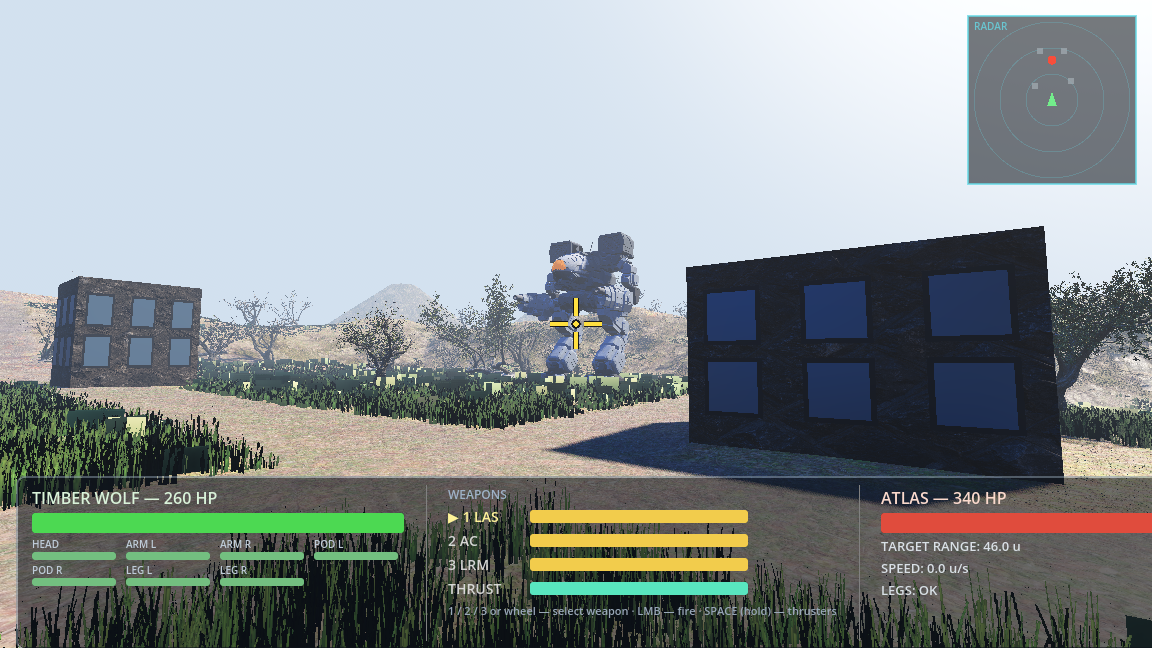
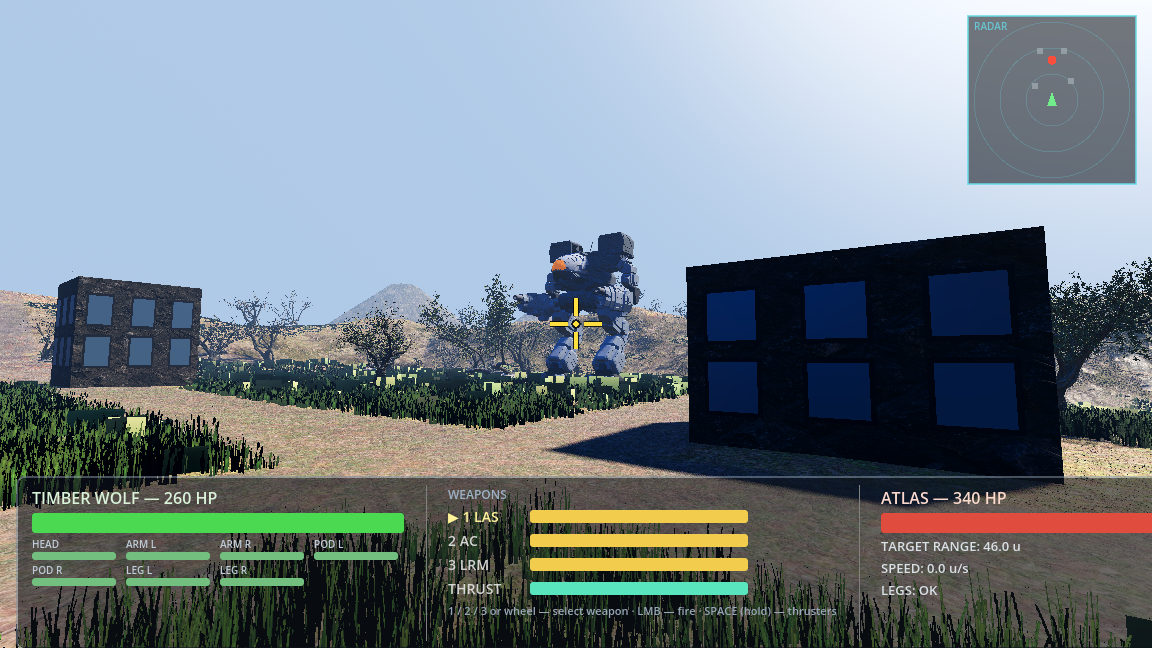
photo: SDFGI tuned (4 cascades, occlusion, coarser probes) + darker contrast look
Exposure 1.06->0.94, sky ambient 0.42->0.30, SDFGI energy 0.85,
sun 1.6->1.45, fog color deepened (density kept), filmic
contrast 1.08 / saturation 1.05. Owner: fog + bright light
overilluminated the scene. Proofs regenerated.

diff --git a/godot/PhotoEnv.cs b/godot/PhotoEnv.cs
@@ -477,17 +477,38 @@ void fragment() {
     public static void Tune(Environment env, DirectionalLight3D sun)
     {
         env.SdfgiEnabled = true;
+        // Optimization #2 (owner): fewer, cheaper cascades + probe
+        // occlusion; convergence cost is spread thinner, which
+        // flattens frame times. Quality at arena scale is unchanged
+        // in practice — 4 cascades cover 170u comfortably.
+        env.SdfgiCascades = 4;
+        env.SdfgiUseOcclusion = true;
+        env.SdfgiMinCellSize = 0.35f;
         env.SsaoEnabled = true;
         env.VolumetricFogEnabled = true;
         env.VolumetricFogDensity = 0.0022f; // probe run 1 white-out: volumetric density is its own dial, and the default buried the scene
         env.FogDensity = 0.0016f; // distance haze like the reference shot
         env.GlowEnabled = true;
-        env.GlowIntensity = 0.25f;
+        env.GlowIntensity = 0.15f;
         env.GlowStrength = 0.7f;
-        env.TonemapExposure = 1.06f;
-        env.AmbientLightEnergy = 0.42f;
-        sun.LightEnergy = 1.6f;
+        // Look pass (owner: fog + bright light overilluminated the
+        // scene). The wash came from stacked ambient terms — sky
+        // ambient 0.42 + full-strength SDFGI bounce + bright fog —
+        // so the fix is to let the SUN carry the image and deepen
+        // everything else: lower exposure, weaker ambient and
+        // bounce, darker fog, and a gentle filmic contrast/
+        // saturation adjustment on top. The haze itself stays.
+        env.TonemapExposure = 0.94f;
+        env.AmbientLightEnergy = 0.30f;
+        env.SdfgiEnergy = 0.85f;
+        env.FogLightColor = new Color(0.55f, 0.65f, 0.78f);
+        env.VolumetricFogAlbedo = new Color(0.55f, 0.65f, 0.78f);
+        env.AdjustmentEnabled = true;
+        env.AdjustmentBrightness = 1.0f;
+        env.AdjustmentContrast = 1.08f;
+        env.AdjustmentSaturation = 1.05f;
+        sun.LightEnergy = 1.45f;
         sun.DirectionalShadowMaxDistance = 520f;
-        GD.Print("PHOTO env tuned: SDFGI + SSAO + volumetric fog + glow");
+        GD.Print("PHOTO env tuned: SDFGI(4 cascades) + SSAO + volumetric fog + glow; darker contrast look");
     }
 }
